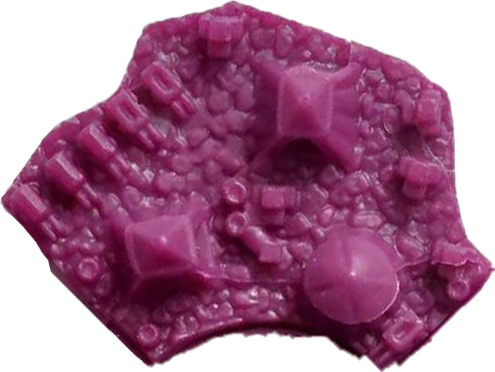
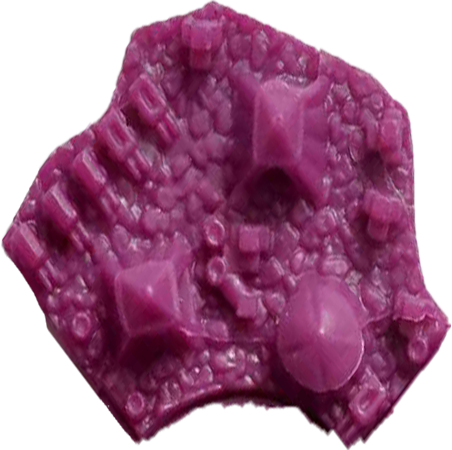
new buildings images

diff --git a/styles.css b/styles.css
@@ -1,4 +1,3 @@
-
 body {
   background-color: azure;
   padding: 50px 0;
@@ -56,7 +55,7 @@ h2 {
   justify-items: center;
   justify-content: center;
   margin-left: 2px;
-  
+
   background-image: url(./img/hiddenMap2.webp);
   background-repeat: no-repeat;
   background-position: center;
@@ -79,48 +78,6 @@ h2 {
   pointer-events: none;
   position: relative;
 }
-
-
-
-.hex > .hex-small:nth-child(1) {
-  /* background-color: yellow; */
-  background-position: right bottom;
-}
-.hex > .hex-small:nth-child(2) {
-  /* background-color: rgb(70, 133, 57); */
-  background-position: center bottom;
-}
-.hex > .hex-small:nth-child(3) {
-  /* background-color: rgb(58, 57, 133); */
-  background-position: left bottom;
-}
-.hex > .hex-small:nth-child(4) {
-  /* background-color: rgb(124, 57, 133); */
-  background-position: right center;
-}
-.hex > .hex-small:nth-child(5) {
-  /* background-color: rgb(36, 201, 192); */
-  background-position: center center;
-}
-
-.hex > .hex-small:nth-child(6) {
-  /* background-color: rgb(160, 25, 66); */
-  background-position: left bottom;
-}
-.hex > .hex-small:nth-child(7) {
-  /* background-color: rgb(160, 25, 66); */
-  background-position: right top;
-}
-.hex > .hex-small:nth-child(8) {
-  /* background-color: rgb(160, 25, 66); */
-  background-position: center top;
-}
-.hex > .hex-small:nth-child(9) {
-  /* background-color: rgb(160, 25, 66); */
-  background-position: left top;
-}
-
-
 
 .hex-rotate {
   display: inline-grid;
@@ -352,123 +309,91 @@ h2 {
 }
 
 /* ------------ Structure Images ----------------- */
-/* .market {
-  background-image: url(./img/buildings/market.png);
+.hex > .hex-small:nth-child(2)::before,
+.hex-small:nth-child(4)::before,
+.hex-small:nth-child(6)::before,
+.hex-small:nth-child(8)::before {
+  content: "";
   background-repeat: no-repeat;
-  background-size: 100%;
-} */
+  background-size: 100% 100%;
+  width: 45px;
+  height: 45px;
+  display: block;
+}
 
 .market::before {
-  content: "";
   background-image: url(./img/buildings/market.png);
-  background-repeat: no-repeat;
-  background-size: 100% 100%;
-  width: 45px;
-  height: 45px;
-  display: block;
-  position: absolute;
-  left: 50%;
-  transform: translateX(-50%);
-  bottom: -7px;
-  z-index: -1;
 }
-
-
 .fortress::before {
-  content: "";
   background-image: url(./img/buildings/fortress.png);
-  background-repeat: no-repeat;
-  background-size: 100% 100%;
-  width: 45px;
-  height: 45px;
-  display: block;
-  position: absolute;
-  left: 50%;
-  transform: translateX(-50%);
-  bottom: -7px;
-  z-index: -1;
-
-  /* transform: rotate(-90deg); */
 }
-
-
 .academy::before {
-  content: "";
   background-image: url(./img/buildings/academy.png);
-  background-repeat: no-repeat;
-  background-size: 100% 100%;
-  width: 45px;
-  height: 45px;
-  display: block;
-  position: absolute;
-  left: 50%;
-  transform: translateX(-50%);
-  bottom: -7px;
-  z-index: -1;
 }
-
 .obelisk::before {
-  content: "";
   background-image: url(./img/buildings/obelisk.png);
-  background-repeat: no-repeat;
-  background-size: 100% 100%;
-  width: 45px;
-  height: 45px;
-  display: block;
-  position: absolute;
-  left: 50%;
-  transform: translateX(-50%);
-  bottom: -7px;
-  z-index: -1;
 }
-
 .port::before {
-  content: "";
   background-image: url(./img/buildings/port.png);
-  background-repeat: no-repeat;
-  background-size: 100% 100%;
-  width: 45px;
-  height: 45px;
-  display: block;
-  position: absolute;
-  left: 50%;
-  transform: translateX(-50%);
-  bottom: -7px;
-  z-index: -1;
 }
-
 .temple::before {
-  content: "";
   background-image: url(./img/buildings/temple.png);
-  background-repeat: no-repeat;
-  background-size: 100% 100%;
-  width: 45px;
-  height: 45px;
-  display: block;
-  position: absolute;
-  left: 50%;
-  transform: translateX(-50%);
-  bottom: -7px;
-  z-index: -1;
 }
-
 .observatory::before {
-  content: "";
   background-image: url(./img/buildings/observatory.png);
-  background-repeat: no-repeat;
-  background-size: 100% 100%;
-  width: 45px;
-  height: 45px;
-  display: block;
+}
+
+
+.hex > .hex-small:nth-child(2)::before {
   position: absolute;
+  bottom: -7px;
   left: 50%;
   transform: translateX(-50%);
-  bottom: -7px;
+  z-index: -1;
+}
+.hex > .hex-small:nth-child(4)::before {
+  position: absolute;
+  top: -5px;
+  left: 5px;
+  transform: rotate(-90deg);
+  z-index: -1;
+}
+.hex > .hex-small:nth-child(5) {
+  /* background-color: rgb(36, 201, 192); */
+  background-position: center center;
+}
+.hex > .hex-small:nth-child(6)::before {
+  position: absolute;
+  top: -5px;
+  left: -5px;
+  transform: rotate(90deg);
+  z-index: -1;
+}
+.hex > .hex-small:nth-child(8)::before {
+  position: absolute;
+  top: -7px;
+  left: -3px;
+  transform: rotate(180deg);
   z-index: -1;
 }
 
 
-
+.hex > .hex-small:nth-child(1) {
+  /* background-color: yellow; */
+  background-position: right bottom;
+}
+.hex > .hex-small:nth-child(3) {
+  /* background-color: rgb(58, 57, 133); */
+  background-position: left bottom;
+}
+.hex > .hex-small:nth-child(7) {
+  /* background-color: rgb(160, 25, 66); */
+  background-position: right top;
+}
+.hex > .hex-small:nth-child(9) {
+  /* background-color: rgb(160, 25, 66); */
+  background-position: left top;
+}
 
 /* ------------ HUD Town ----------------- */
 .game-container {

diff --git a/init.js b/init.js
@@ -165,13 +165,17 @@ const bb = () => {
   hexes[2].childNodes[3].classList.add(`observatory`);
   hexes[2].childNodes[1].classList.add(`port`);
   hexes[2].childNodes[7].classList.add(`temple`);
+  hexes[2].childNodes[5].classList.add(`port`);
 
 
-
-
-
-
+  hexes[3].childNodes[4].classList.add(`towngreen`);
+  hexes[3].childNodes[1].classList.add(`observatory`);
+  hexes[3].childNodes[5].classList.add(`port`);
+  hexes[3].childNodes[3].classList.add(`temple`);
+  hexes[3].childNodes[7].classList.add(`port`);
 }
+
+// bb();
 
 
 
